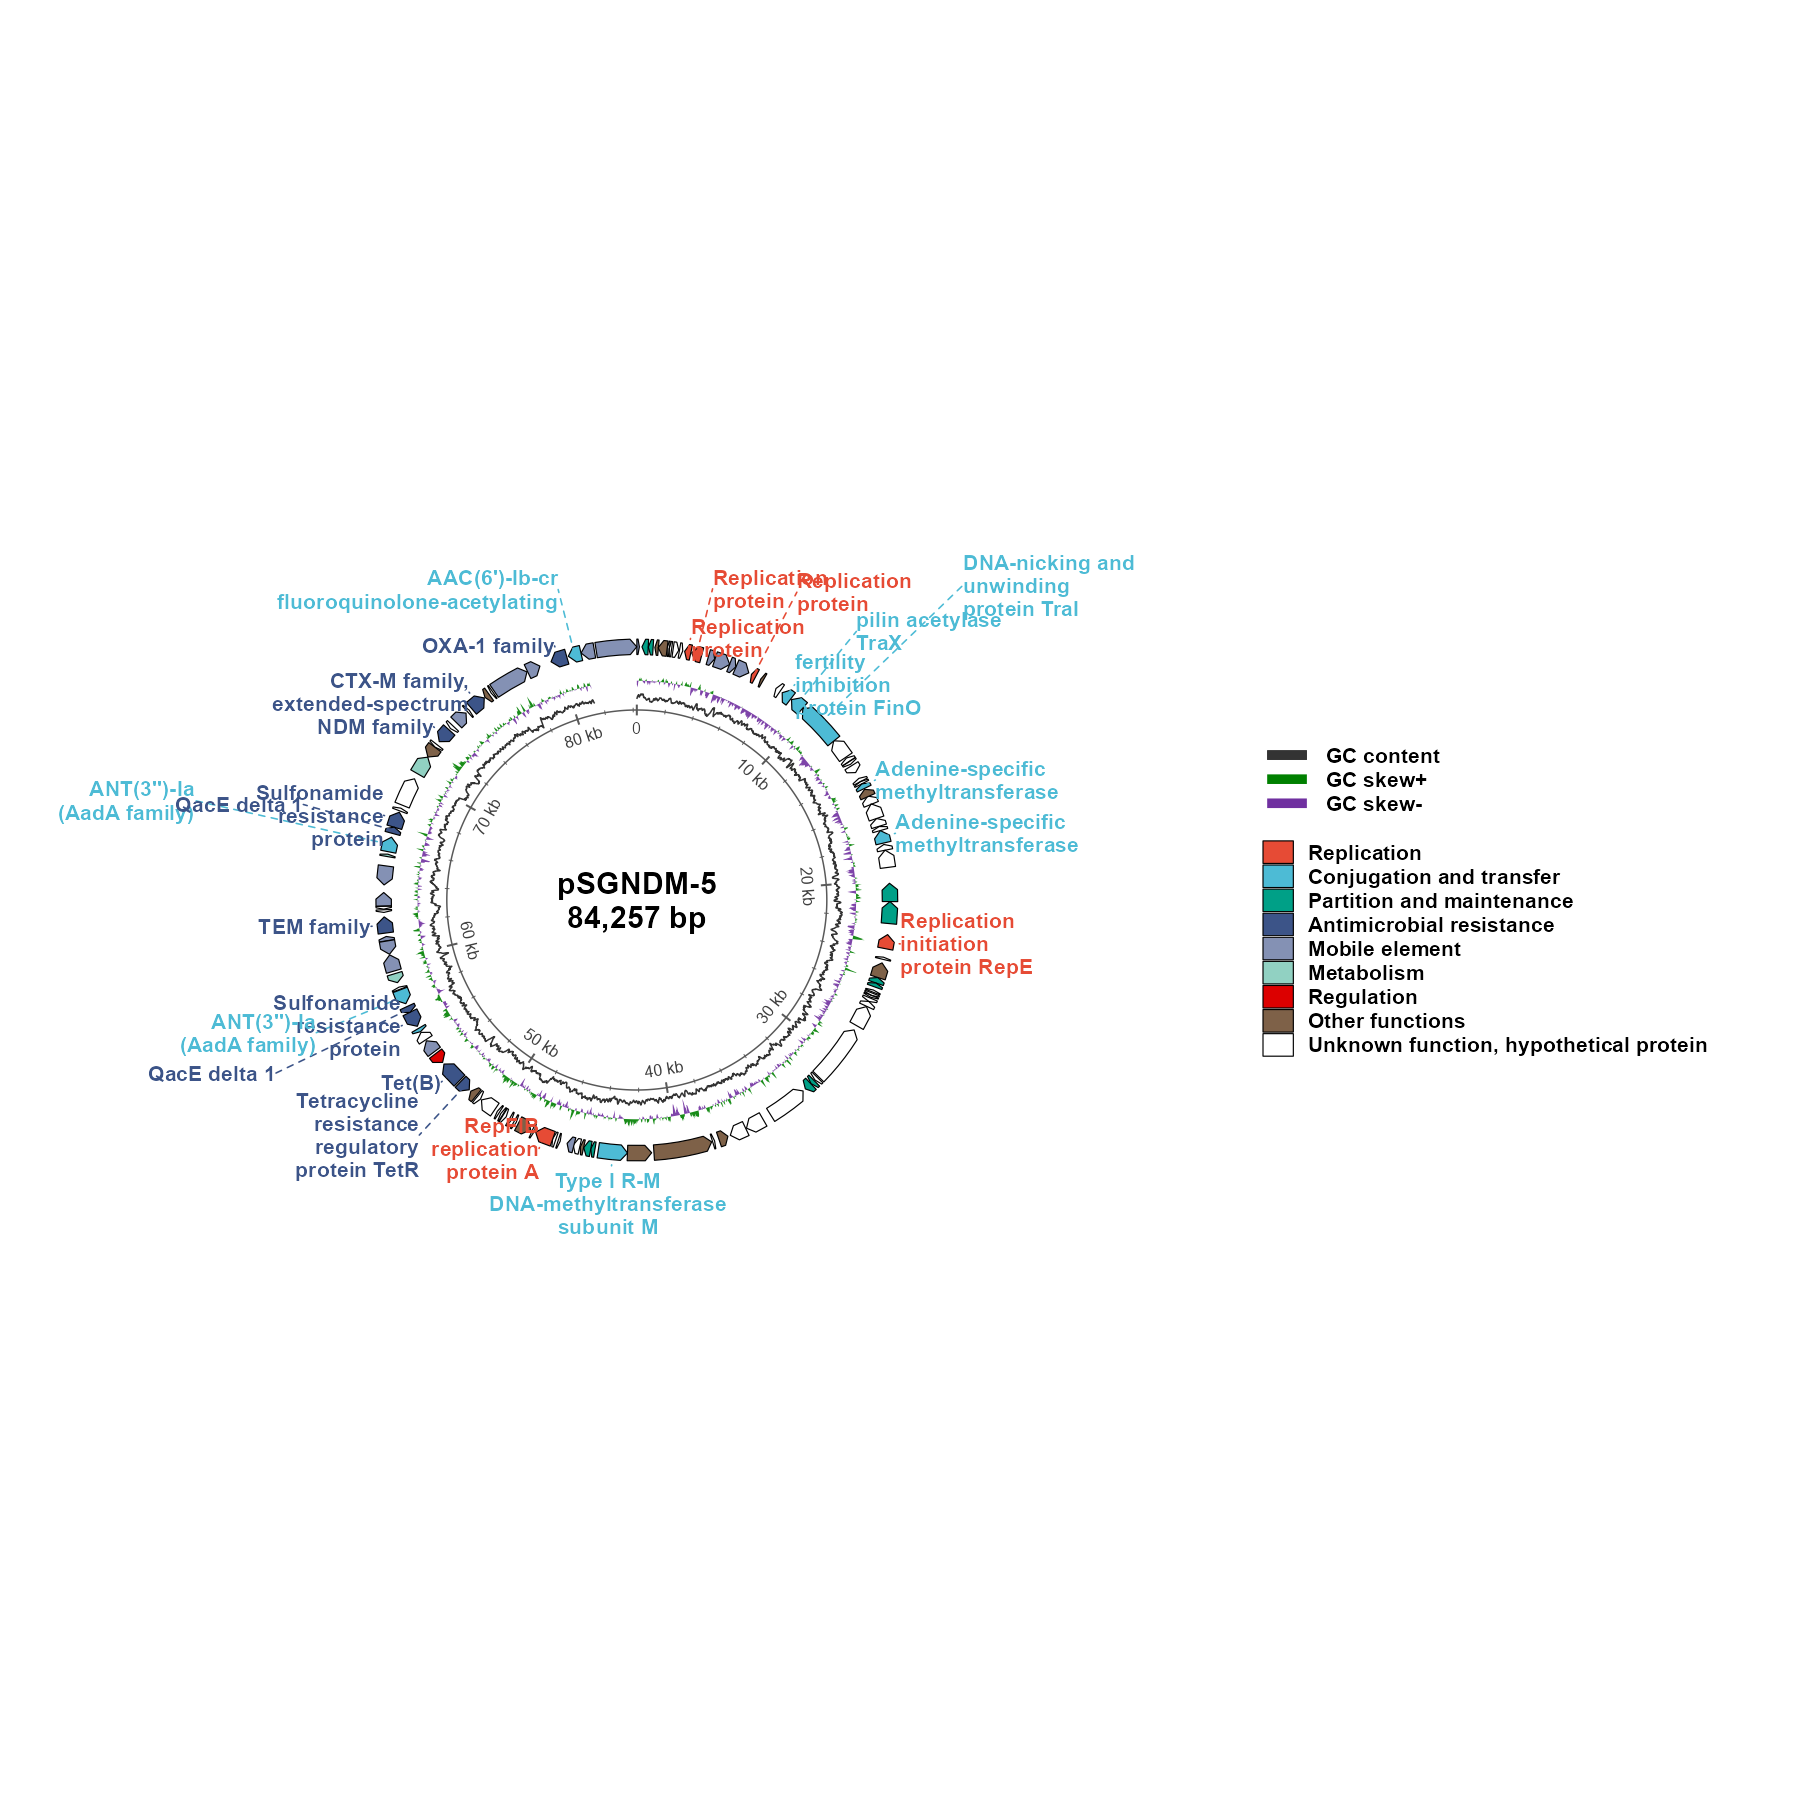
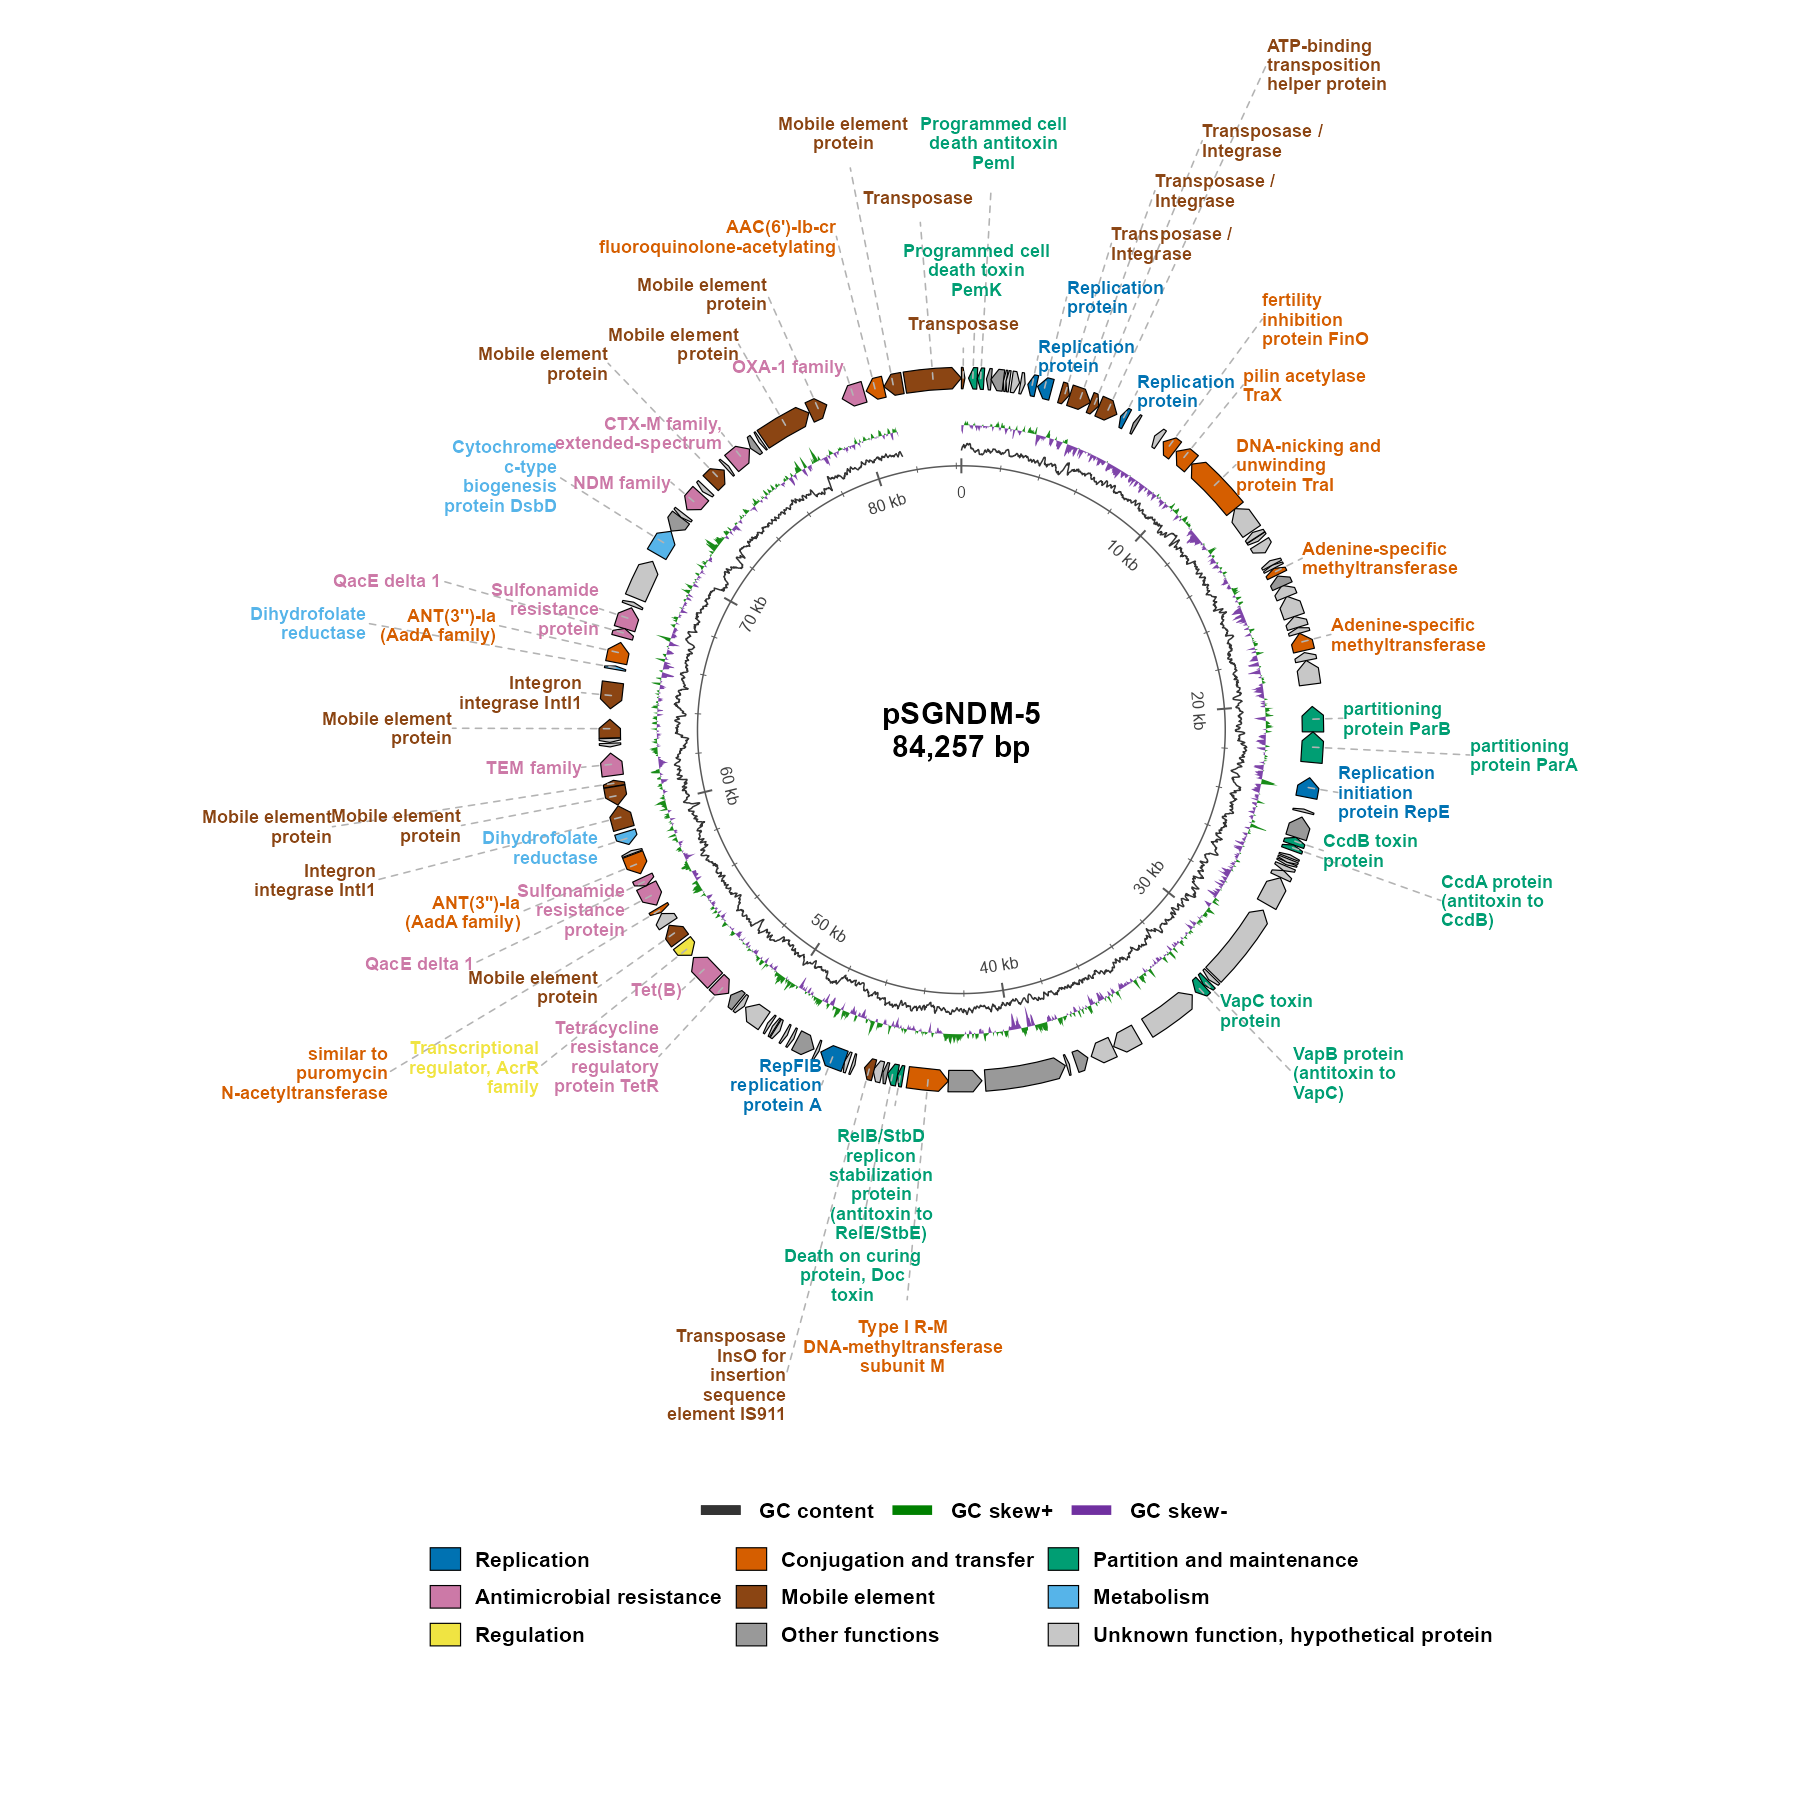
Restore README demo figures

Changed region(s): [[0.0311, 0.0, 0.9333, 0.7778], [0.2178, 0.84, 0.8089, 0.9333], [0.3733, 0.7156, 0.4356, 0.8089]]

diff --git a/README.md b/README.md
@@ -55,7 +55,7 @@ p_circular <- ggplasmid(
   fasta = fasta,                              # sequence for GC tracks
   name = "pSGNDM-5",                          # plot title/name
   layout = "circular",                        # circular map
-  palette = "npg",                            # can change to ggsci palette
+  palette = "default",                        # can change to ggsci palette
   label_exclude_categories = "Other functions", # hide these labels only
   max_labels = 24,                             # maximum labels to draw
   label_text_colour = "category",             # color label text by category
@@ -80,7 +80,7 @@ p_linear <- ggplasmid(
   fasta = fasta,                              # sequence for GC tracks
   name = "pSGNDM-5",                          # plot title/name
   layout = "linear",                          # linear map
-  palette = "npg",                            # can change to ggsci palette
+  palette = "default",                        # can change to ggsci palette
   plot_line_num = 4,                           # number of genome lines
   max_labels = 36,                             # maximum labels to draw
   linear_label_wrap_width = 18,                # approximate label width
